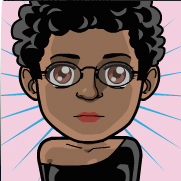
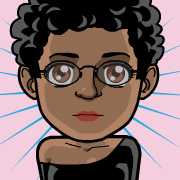
fix image

diff --git a/index.html b/index.html
@@ -31,7 +31,7 @@
 
 <div class="container-fluid bg-1 text-center">
   <h3>Who Am I?</h3>
-  <img src="bird.jpg" class="img-circle" alt="Bird" width="350" height="350">
+  <img src="raquel.png" class="img-circle" alt="aquel Joseph" width="350" height="350">
   <h3>I'm an adventurer</h3>
 </div>
 
@@ -42,7 +42,7 @@
 
 <div class="container-fluid bg-3 text-center">
   <h3>Where To Find Me?</h3>
-  <p></p
+  <p></p>
 </div>
 
 </body>
